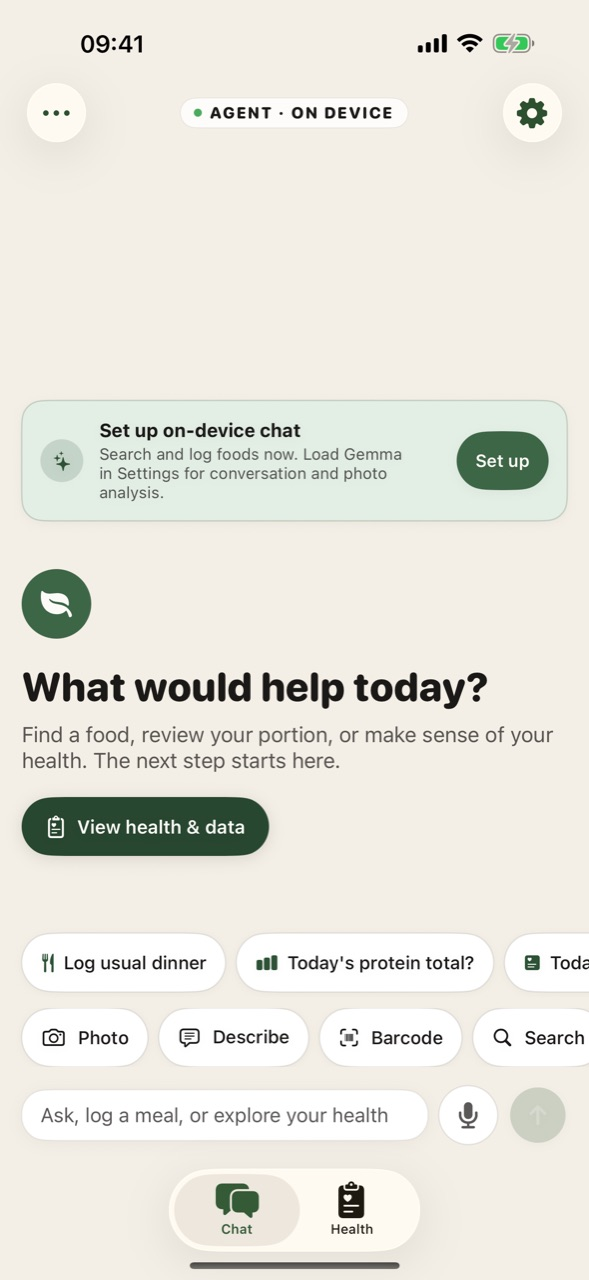
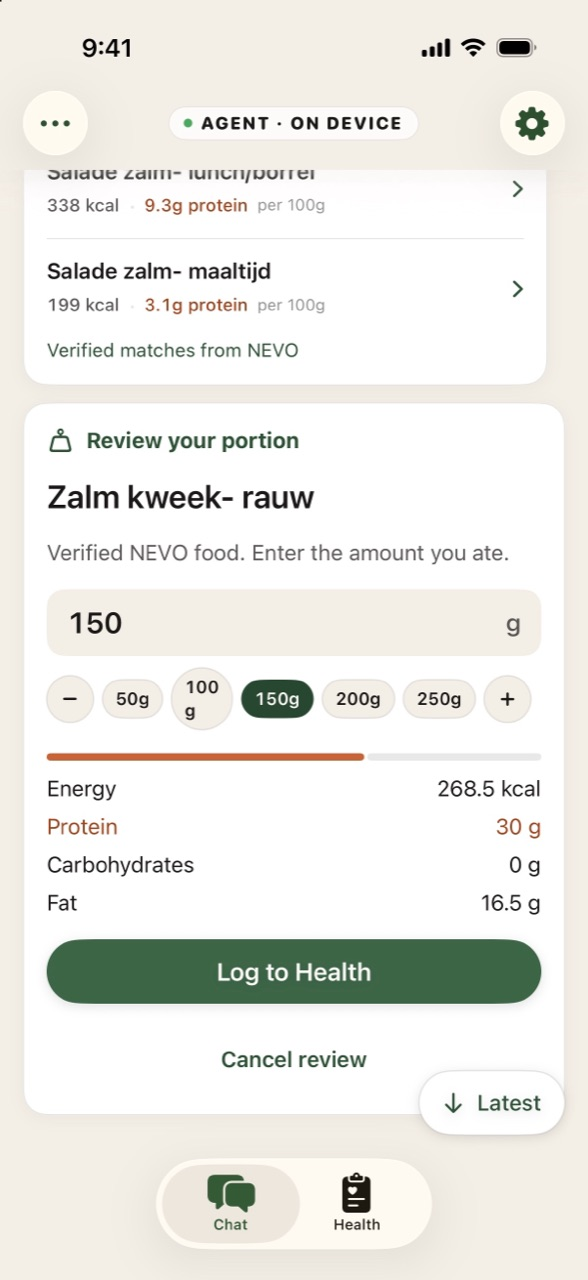
health-companion: use the App Store screenshots (#3)
Show the same Health and portion-review shots that were uploaded to App
Store Connect, so the site and the listing match.

diff --git a/health-companion/index.html b/health-companion/index.html
@@ -74,8 +74,8 @@
           </p>
         </div>
         <figure class="phone">
-          <img src="/health-companion/screenshots/chat.jpg" width="589" height="1280" loading="lazy"
-            alt="The Chat tab: an on-device chat setup card, “What would help today?”, a View health &amp; data button, suggestions such as “Log usual dinner”, and Photo, Describe, Barcode, and Search above the message field.">
+          <img src="/health-companion/screenshots/chat.jpg" width="588" height="1280" loading="lazy"
+            alt="The Chat tab reviewing a portion: verified NEVO matches, a gram amount with quick picks, the scaled energy, protein, carbohydrates, and fat, and a Log to Health button.">
         </figure>
       </section>
 
@@ -95,8 +95,8 @@
           </p>
         </div>
         <figure class="phone">
-          <img src="/health-companion/screenshots/health.jpg" width="589" height="1280" loading="lazy"
-            alt="The Health tab: “Your plan appears to be working.”, a range picker set to one week, a weight trend, and calorie, macro, activity, and sleep cards. The figures are sample data.">
+          <img src="/health-companion/screenshots/health.jpg" width="588" height="1280" loading="lazy"
+            alt="The Health tab: “Your plan appears to be working.”, a range picker set to one month, a weight trend, and calorie, macro, activity, and sleep cards. The figures are sample data.">
         </figure>
       </section>
 
